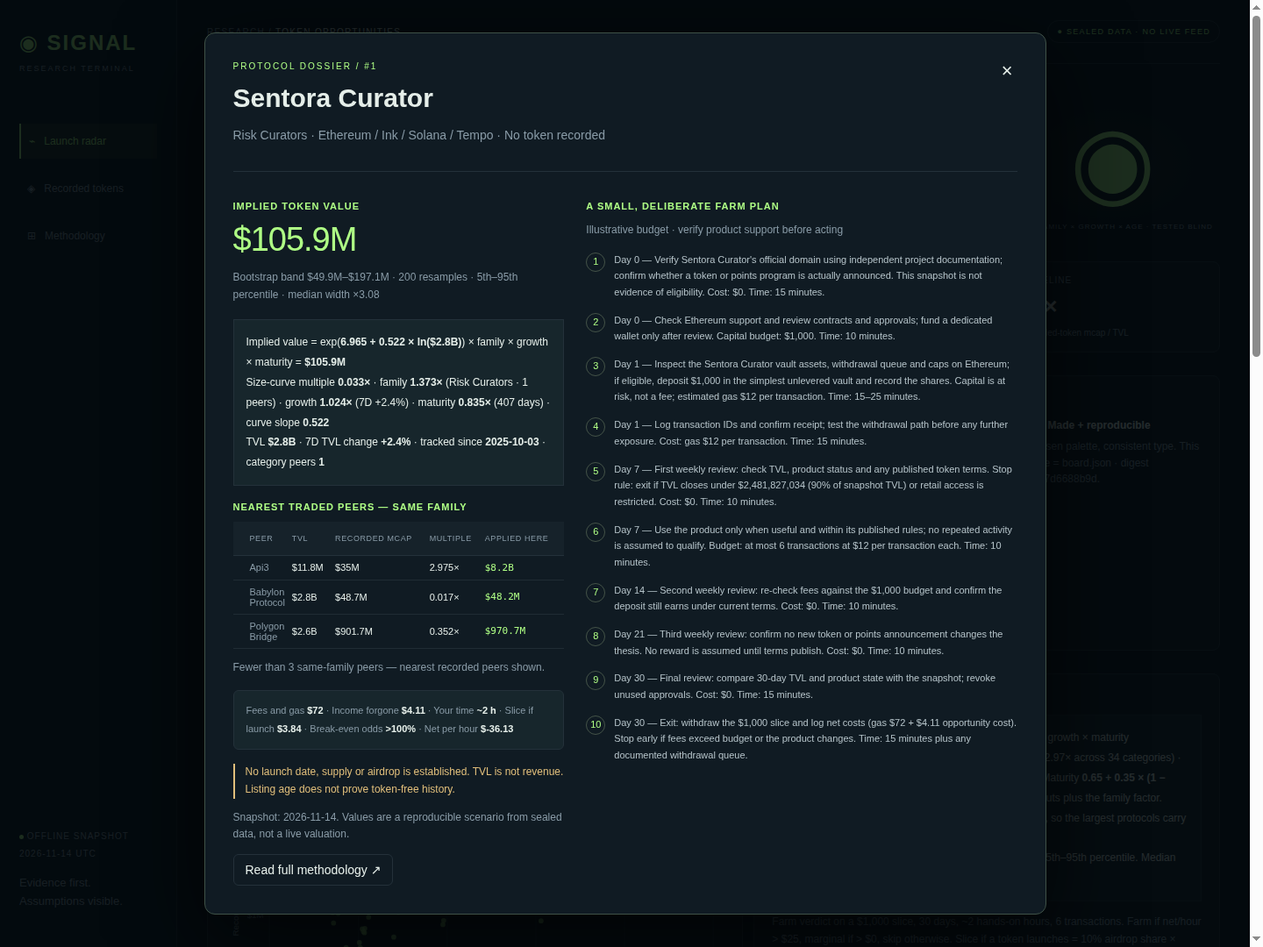
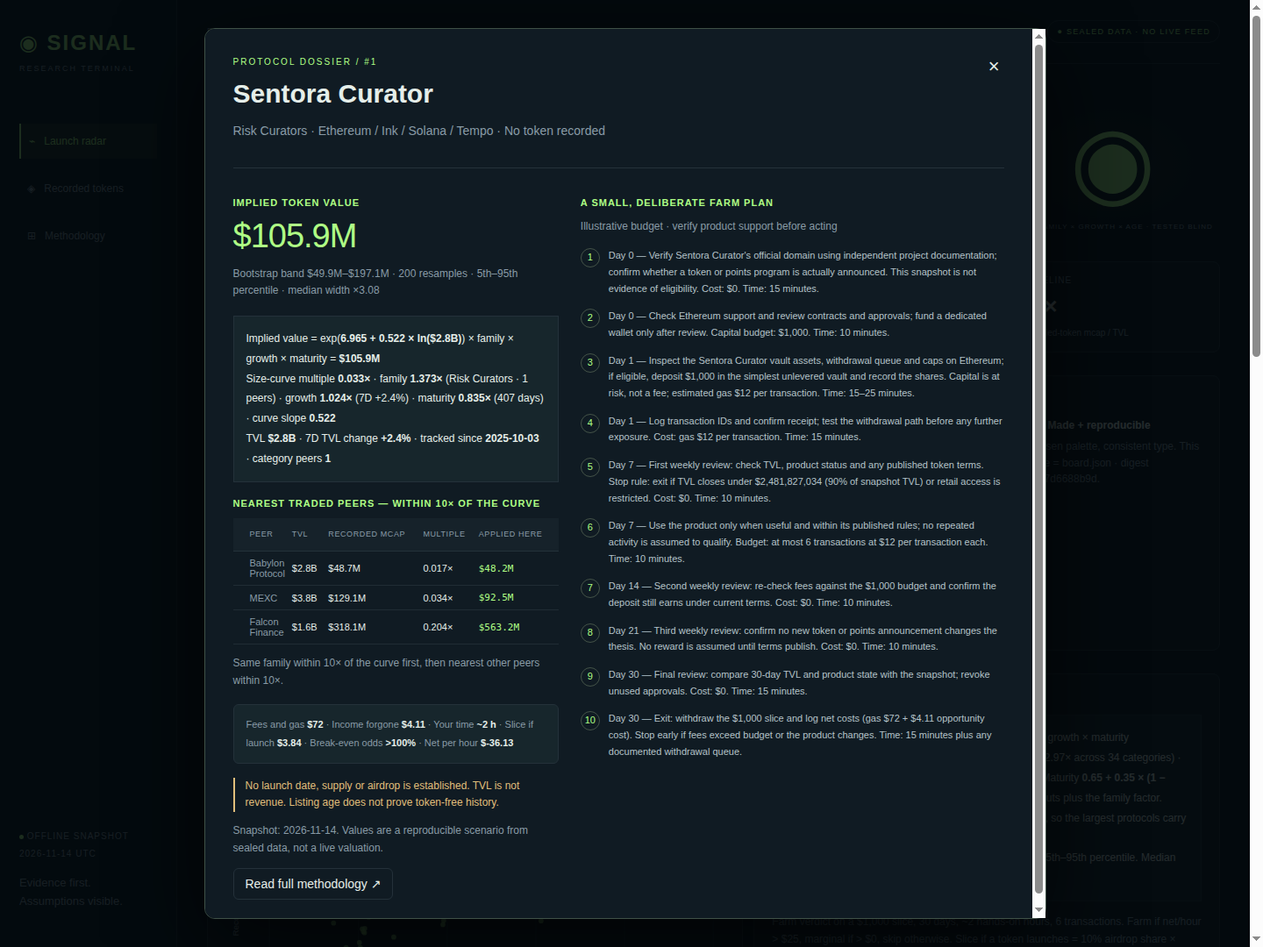
token-radar-01 v7: presentation-only fixes on r3
- Peers table fills only from peers within 10x of the size curve
  (same family first, then any family); 0 of 582 shown peers outside
  10x (r3: 100), all 194 rows still show 3 peers
- Early-finds note states the overlap (3 in both): 49 new + 7 rising
  = 53 total now reads as arithmetic
- Farm-next rows show break-even odds beside net $/hour
- Footer v5.0 -> v7.0; README r3 + v7 paragraphs
- Model, numbers, farm arithmetic untouched (board.json identical
  to r3); static check 15/15; dossier sha256
  22bedf7c5b301464510d4afa088ffacf1e4b34c2c7bced66c88443215399c2e3

diff --git a/dashboard/app.js b/dashboard/app.js
@@ -49,8 +49,11 @@ $('#validation-notes').innerHTML=`<p><b>Validated, not assumed.</b> Time-split o
   $('#bestline-head').textContent='Best net '+money2(best.net_per_hour_usd)+'/hr — '+best.name;
   $('#bestline-note').textContent=best.category+' · '+money(best.implied_value_usd)+' implied · break-even odds '+oddsFmt(best.break_even_odds)+' · verdict '+best.verdict.toUpperCase()+' · on a $'+V.farm_economics.capital_slice_usd.toLocaleString('en-US')+' slice, 30 days, ~'+V.farm_economics.hours+' hands-on hours. Farm if > $25/h, marginal if > $0, skip otherwise. Click a farm row below for its full plan.';
   $('#farmnext-note').textContent='Best net '+money2(V.best_farms[0].net_per_hour_usd)+'/hr ('+V.best_farms[0].name+') · out-of-sample within-3× '+Math.round(V.oos_time_split.within_3x*100)+'% — the leading board publishes 48% within 3× for its own test. Net per hands-on hour on a $'+V.farm_economics.capital_slice_usd.toLocaleString('en-US')+' slice, 30 days, ~'+V.farm_economics.hours+' hands-on hours. Farm if > $25/h, marginal if > $0, skip otherwise. Click a row for its full plan.';
-  $('#best-farms').innerHTML=V.best_farms.map(f=>`<button class="farmrow" data-slug="${esc(f.slug)}"><span class="farmrank">#${f.rank}</span><span class="farmname">${esc(f.name)}<span class="sub">${esc(f.category)} · ${money(f.implied_value_usd)} implied</span></span><span class="farmnet">${money2(f.net_per_hour_usd)}/hr</span><span class="tag ${f.verdict}">${f.verdict.toUpperCase()}</span></button>`).join('');
-  $('#early-note').textContent=V.early_finds.total+' early finds — '+V.early_finds.new_count+' new (listed ≤180 days) · '+V.early_finds.rising_count+' rising (+25% TVL in 7 days). Ranked by implied value.';
+  // v7: each Farm-next row now shows its break-even odds beside the net $/hour
+  // (r3 showed the odds only in the headline note above, not on the rows).
+  $('#best-farms').innerHTML=V.best_farms.map(f=>`<button class="farmrow" data-slug="${esc(f.slug)}"><span class="farmrank">#${f.rank}</span><span class="farmname">${esc(f.name)}<span class="sub">${esc(f.category)} · ${money(f.implied_value_usd)} implied</span></span><span class="farmnet">${money2(f.net_per_hour_usd)}/hr</span><span class="farmodds">break-even ${oddsFmt(f.break_even_odds)}</span><span class="tag ${f.verdict}">${f.verdict.toUpperCase()}</span></button>`).join('');
+  // v7: the note states the overlap (both_count), so new + rising adds up to the total.
+  $('#early-note').textContent=V.early_finds.total+' early finds — '+V.early_finds.new_count+' new (listed ≤180 days) · '+V.early_finds.rising_count+' rising (+25% TVL in 7 days) · '+V.early_finds.both_count+' in both. Ranked by implied value.';
   $('#early-finds').innerHTML=V.early_finds.rows.map(f=>`<button class="farmrow" data-slug="${esc(f.slug)}"><span class="farmrank">#${f.rank}</span><span class="farmname">${esc(f.name)}<span class="sub">${esc(f.category)} · ${money(f.implied_value_usd)} implied</span></span><span class="farmnet">${f.age_days!=null?f.age_days+'d old':''}${f.age_days!=null&&f.change_7d!=null?' · ':''}${f.change_7d!=null?pct(f.change_7d)+' 7D':''}</span><span class="tag ${f.verdict}">${f.verdict.toUpperCase()}</span></button>`).join('');
   $('#digest-badge').innerHTML=`This page = board.json · digest <code>${esc(D.digest_short)}</code> · re-running main.ts on this snapshot reproduces board.json, dossier.json and data.js byte for byte.`;
 })();
@@ -67,11 +70,14 @@ function render(){
  $('#empty').hidden=filtered.length>0;$('#range').textContent=filtered.length?`${page*size+1}–${Math.min((page+1)*size,filtered.length)} of ${filtered.length} protocols`:'0 protocols';$('#prev').disabled=page===0;$('#next').disabled=(page+1)*size>=filtered.length;
  document.querySelectorAll('[data-slug]').forEach(b=>b.onclick=()=>openDetail(b.dataset.slug));
 }
-// Nearest traded peers: same family, nearest by TVL, preferring peers whose
-// multiple is within 10x of the size curve at this row's TVL (a peer trading
-// 100x off the curve says little about this row); each peer's multiple applied
-// to this row's TVL. Fills with the nearest same-family peers, then the nearest
-// recorded peers, when fewer than 3 qualify.
+// Nearest traded peers: same family, nearest by TVL, ONLY peers whose multiple
+// is within 10x of the size curve at this row's TVL (a peer trading 100x off
+// the curve says little about this row); each peer's multiple applied to this
+// row's TVL. Fills come from other families within the same 10x window when
+// fewer than 3 same-family peers qualify — never from outside the window, so
+// no "applied here" value can sit 100x off the row's implied value (r3 showed
+// one at 1506x: Polymarket International vs Rain, applied $128.1B against an
+// $85.0M implied value). On this snapshot every row still shows 3 peers.
 function nearestPeers(r){
   const dist=p=>Math.abs(Math.log(p.tvl_usd)-Math.log(r.tvl_usd));
   const a=D.validation.size_curve.a,b=D.validation.size_curve.b;
@@ -80,12 +86,9 @@ function nearestPeers(r){
   const same=D.live.filter(p=>p.category===r.category&&p.slug!==r.slug).sort((x,y)=>dist(x)-dist(y));
   let peers=same.filter(within10).slice(0,3),note='Same family ('+r.category+'), within 10× of the size curve, nearest by TVL.';
   if(peers.length<3){
-    const fill=same.filter(p=>!peers.includes(p)).slice(0,3-peers.length);
-    peers=peers.concat(fill);note='Same family ('+r.category+'), nearest by TVL — fewer than 3 within 10× of the size curve.';
-  }
-  if(peers.length<3){
-    const rest=D.live.filter(p=>p.category!==r.category&&!peers.includes(p)).sort((x,y)=>dist(x)-dist(y)).slice(0,3-peers.length);
-    peers=peers.concat(rest);note='Fewer than 3 same-family peers — nearest recorded peers shown.';
+    const rest=D.live.filter(p=>p.category!==r.category&&!peers.includes(p)&&within10(p)).sort((x,y)=>dist(x)-dist(y)).slice(0,3-peers.length);
+    peers=peers.concat(rest);
+    note=peers.length<3?'Only '+peers.length+' traded peer'+(peers.length===1?'':'s')+' within 10× of the size curve — a peer trading further off the curve says little about this row, so none is shown.':'Same family within 10× of the curve first, then nearest other peers within 10×.';
   }
   return {peers,note};
 }
@@ -93,7 +96,7 @@ function openDetail(slug){
  const r=(live?D.live:D.rows).find(r=>r.slug===slug);if(!r)return;
  const a=D.validation.size_curve.a,b=D.validation.size_curve.b;
  const np=live?null:nearestPeers(r);
- $('#detail-content').innerHTML=`<div class="detail-head"><div class="eyebrow">${live?'RECORDED TOKEN / MARKET EVIDENCE':'PROTOCOL DOSSIER / #'+r.rank}</div><h2>${esc(r.name)}</h2><p>${esc(r.category)} · ${esc(r.chains.join(' / '))} · ${esc(r.token_status)}</p></div><div class="detail-grid"><section><h3>${live?'Recorded market cap':'Implied token value'}</h3><div class="estimate">${money(live?r.mcap_usd:r.implied_value_usd)}</div>${live?`<div class="formula">TVL <b>${money(r.tvl_usd)}</b><br>7D TVL change <b>${pct(r.change_7d)}</b><br>Tracked since <b>${esc(r.listed_at||'Unknown')}</b></div>`:`<p>Bootstrap band ${money(r.low_usd)}–${money(r.high_usd)} · 200 resamples · 5th–95th percentile · median width ×${D.validation.bootstrap.median_band_width_x}</p><div class="formula">Implied value = exp(<b>${a.toFixed(3)} + ${b.toFixed(3)} × ln(${money(r.tvl_usd)})</b>) × family × growth × maturity = <b>${money(r.implied_value_usd)}</b><br>Size-curve multiple <b>${r.multiple.toFixed(3)}×</b> · family <b>${r.family.toFixed(3)}×</b> (${esc(r.category)} · ${r.peer_count} peers) · growth <b>${r.growth.toFixed(3)}×</b> (7D ${pct(r.change_7d)}) · maturity <b>${r.maturity.toFixed(3)}×</b> (${r.age_days!=null?r.age_days+' days':'age unknown'}) · curve slope <b>${b.toFixed(3)}</b><br>TVL <b>${money(r.tvl_usd)}</b> · 7D TVL change <b>${pct(r.change_7d)}</b> · tracked since <b>${esc(r.listed_at||'Unknown')}</b> · category peers <b>${r.peer_count}</b></div><h3>Nearest traded peers — same family</h3><table class="peers"><thead><tr><th>Peer</th><th>TVL</th><th>Recorded mcap</th><th>Multiple</th><th>Applied here</th></tr></thead><tbody>${np.peers.map(p=>`<tr><td>${esc(p.name)}</td><td>${money(p.tvl_usd)}</td><td>${money(p.mcap_usd)}</td><td>${(p.mcap_usd/p.tvl_usd).toFixed(3)}×</td><td>${money(r.tvl_usd*(p.mcap_usd/p.tvl_usd))}</td></tr>`).join('')}</tbody></table><p class="peers-note">${esc(np.note)}</p><div class="econ-footer">Fees and gas <b>${money2(r.gas_total_usd)}</b> · Income forgone <b>${money2(r.opportunity_usd)}</b> · Your time <b>~${D.validation.farm_economics.hours} h</b> · Slice if launch <b>${money2(r.slice_usd)}</b> · Break-even odds <b>${oddsFmt(r.break_even_odds)}</b> · Net per hour <b>${money2(r.net_per_hour_usd)}</b></div>`}<p class="warning">${live?'This protocol records a token. A new-token farm thesis is not established.':'No launch date, supply or airdrop is established. TVL is not revenue. Listing age does not prove token-free history.'}</p><p>Snapshot: ${esc(D.as_of)}. Values are a reproducible scenario from sealed data, not a live valuation.</p><button id="detail-method">Read full methodology ↗</button></section><section><h3>${live?'Research checklist':'A small, deliberate farm plan'}</h3>${live?'<p>Verify token contract and published distribution terms. Separate token purchases from any future rewards program. Review liquidity, unlocks and product access before committing capital.</p>':`<p>Illustrative budget · verify product support before acting</p><ol class="steps">${r.farm_steps.map(s=>`<li>${esc(s)}</li>`).join('')}</ol>`}</section></div>`;
+ $('#detail-content').innerHTML=`<div class="detail-head"><div class="eyebrow">${live?'RECORDED TOKEN / MARKET EVIDENCE':'PROTOCOL DOSSIER / #'+r.rank}</div><h2>${esc(r.name)}</h2><p>${esc(r.category)} · ${esc(r.chains.join(' / '))} · ${esc(r.token_status)}</p></div><div class="detail-grid"><section><h3>${live?'Recorded market cap':'Implied token value'}</h3><div class="estimate">${money(live?r.mcap_usd:r.implied_value_usd)}</div>${live?`<div class="formula">TVL <b>${money(r.tvl_usd)}</b><br>7D TVL change <b>${pct(r.change_7d)}</b><br>Tracked since <b>${esc(r.listed_at||'Unknown')}</b></div>`:`<p>Bootstrap band ${money(r.low_usd)}–${money(r.high_usd)} · 200 resamples · 5th–95th percentile · median width ×${D.validation.bootstrap.median_band_width_x}</p><div class="formula">Implied value = exp(<b>${a.toFixed(3)} + ${b.toFixed(3)} × ln(${money(r.tvl_usd)})</b>) × family × growth × maturity = <b>${money(r.implied_value_usd)}</b><br>Size-curve multiple <b>${r.multiple.toFixed(3)}×</b> · family <b>${r.family.toFixed(3)}×</b> (${esc(r.category)} · ${r.peer_count} peers) · growth <b>${r.growth.toFixed(3)}×</b> (7D ${pct(r.change_7d)}) · maturity <b>${r.maturity.toFixed(3)}×</b> (${r.age_days!=null?r.age_days+' days':'age unknown'}) · curve slope <b>${b.toFixed(3)}</b><br>TVL <b>${money(r.tvl_usd)}</b> · 7D TVL change <b>${pct(r.change_7d)}</b> · tracked since <b>${esc(r.listed_at||'Unknown')}</b> · category peers <b>${r.peer_count}</b></div><h3>Nearest traded peers — within 10× of the curve</h3><table class="peers"><thead><tr><th>Peer</th><th>TVL</th><th>Recorded mcap</th><th>Multiple</th><th>Applied here</th></tr></thead><tbody>${np.peers.map(p=>`<tr><td>${esc(p.name)}</td><td>${money(p.tvl_usd)}</td><td>${money(p.mcap_usd)}</td><td>${(p.mcap_usd/p.tvl_usd).toFixed(3)}×</td><td>${money(r.tvl_usd*(p.mcap_usd/p.tvl_usd))}</td></tr>`).join('')}</tbody></table><p class="peers-note">${esc(np.note)}</p><div class="econ-footer">Fees and gas <b>${money2(r.gas_total_usd)}</b> · Income forgone <b>${money2(r.opportunity_usd)}</b> · Your time <b>~${D.validation.farm_economics.hours} h</b> · Slice if launch <b>${money2(r.slice_usd)}</b> · Break-even odds <b>${oddsFmt(r.break_even_odds)}</b> · Net per hour <b>${money2(r.net_per_hour_usd)}</b></div>`}<p class="warning">${live?'This protocol records a token. A new-token farm thesis is not established.':'No launch date, supply or airdrop is established. TVL is not revenue. Listing age does not prove token-free history.'}</p><p>Snapshot: ${esc(D.as_of)}. Values are a reproducible scenario from sealed data, not a live valuation.</p><button id="detail-method">Read full methodology ↗</button></section><section><h3>${live?'Research checklist':'A small, deliberate farm plan'}</h3>${live?'<p>Verify token contract and published distribution terms. Separate token purchases from any future rewards program. Review liquidity, unlocks and product access before committing capital.</p>':`<p>Illustrative budget · verify product support before acting</p><ol class="steps">${r.farm_steps.map(s=>`<li>${esc(s)}</li>`).join('')}</ol>`}</section></div>`;
  $('#detail-method').onclick=()=>$('#methodology').showModal();$('#detail').showModal();
 }
 for(const s of ['#search','#category','#chain','#scope'])$(s).addEventListener('input',()=>{page=0;render()});

diff --git a/dashboard/index.html b/dashboard/index.html
@@ -10,7 +10,7 @@
 <section class="workspace"><div class="toolbar"><div><h2 id="view-title">Launch radar <span id="count"></span></h2><p id="view-note">No token recorded in the snapshot · not proof a token does not exist</p></div><button id="export">↓ Export view</button></div>
 <div class="filters"><input id="search" placeholder="Search protocol or chain…" aria-label="Search protocols"><select id="category" aria-label="Category"><option value="">All categories</option></select><select id="chain" aria-label="Chain"><option value="">All chains</option></select><select id="scope" aria-label="Universe"><option value="all">Full radar</option><option value="watch">House watchlist</option><option value="early">Below-floor discoveries</option></select><button id="reset">Reset</button></div>
 <div id="table-wrap"><table><thead><tr><th>#</th><th><button data-sort="name">Protocol ↕</button></th><th><button data-sort="implied_value_usd">Implied value ↓</button></th><th><button data-sort="tvl_usd">TVL ↕</button></th><th><button data-sort="change_7d">7D TVL ↕</button></th><th>Evidence</th><th><button data-sort="net_per_hour_usd">Farm verdict ↕</button></th><th>Research plan</th></tr></thead><tbody id="rows"></tbody></table><div id="empty" hidden>No matching protocols. Try resetting the filters.</div></div><div class="pagination"><span id="range"></span><div><button id="prev">← Previous</button><button id="next">Next →</button></div></div></section>
-<footer>Model output ≠ market cap or a promised reward. Listing age is a proxy for observed history, not token-free history.<span>SIGNAL / v5.0 · TESTED BLIND · NETTED PER HOUR</span></footer></main>
+<footer>Model output ≠ market cap or a promised reward. Listing age is a proxy for observed history, not token-free history.<span>SIGNAL / v7.0 · TESTED BLIND · NETTED PER HOUR</span></footer></main>
 <dialog id="detail"><button class="close" aria-label="Close detail">×</button><div id="detail-content"></div></dialog>
 <dialog id="methodology"><button class="close" aria-label="Close methodology">×</button><div class="eyebrow">MODEL NOTES</div><h2>Every estimate has a trail.</h2><div id="validation-notes"></div><p>Implied value = exp(a + b × ln(TVL)) × family × growth × maturity — a log-log size curve fitted on the recorded-token peers, times the family factor (the category's shrunken residual, k=5), 7-day growth 1 + 0.35 × tanh(change_7d / 35) and listing age 0.65 + 0.35 × (1 − exp(−age_days / 540)): the rubric's three inputs plus the family factor. The fitted a and b are shown in the validation note above and in the "How a value is built" panel on the board; each row's family, growth and maturity multipliers are shown in its detail view.</p><p>The low–high band on each row is a bootstrap interval: 200 resamples of the recorded-token peers, refit, 5th–95th percentile. It is a measured stability band, not an assumed stress band. TVL is not revenue; market cap is not fully diluted value. No supply, distribution, revenue or launch probability is available in the snapshot.</p><p>Farm plans are netted per hands-on hour on fixed terms: a $1,000 capital slice (the deposit), 30 days, ~2 hands-on hours, 6 transactions (Ethereum $12 each, other chains $1.50 each), opportunity cost at ~5% APY. Slice if a token launches = 10% airdrop share × implied value × ($1,000 deposit / TVL); break-even odds = total cost / slice. Verdict: farm if net per hour &gt; $25, marginal (thin) if &gt; $0, skip otherwise. Each row shows its slice, total cost, break-even odds and net per hour. No reward is assumed until a protocol publishes terms. Asset support, access, points, eligibility and live transaction fees require independent verification. Unsupported or restricted products are monitor-only.</p><p id="source"></p></dialog>
 <script src="../data.js"></script><script src="app.js"></script></body></html>

diff --git a/main.ts b/main.ts
@@ -43,6 +43,19 @@
 // The $1,000 capital slice stays (the $5,000 switch is the user's decision,
 // still pending).
 //
+// v7 (on top of r3, which is kept whole): PRESENTATION ONLY — the model, the
+// numbers and the farm arithmetic are untouched. (a) The detail view's peers
+// table no longer fills with the nearest recorded peers regardless of
+// multiple: fills now come only from peers within 10x of the size curve at
+// the row's TVL (same family first, then any family). Every one of the 194
+// rows still shows 3 peers, and 0 shown peers sit outside 10x (r3: 100 of
+// 582 — worst, Polymarket International vs Rain, applied $128.1B against an
+// $85.0M implied value). (b) The Early-finds note now states the overlap (3
+// rows are both new and rising), so 49 new + 7 rising = 53 total reads as
+// arithmetic, not an error. (c) The Farm-next rows show break-even odds
+// beside the net $/hour (the headline already did). The $1,000 capital slice
+// stays (the $5,000 switch is the user's decision, still pending).
+//
 // What the tests decided (measured, not assumed): the log-log size curve
 // ln(mcap) = a + b*ln(TVL) beats the category-median multiple on every test
 // (OOS x3.41 vs x4.59, blind x3.64 vs x5.90, LOO x3.40 vs x5.11). Adding 7D growth,
@@ -361,11 +374,13 @@ const belowFloor=rows.filter((r:any)=>r.tvl_usd<snapshot.floor_usd).length;
 const bestFarms=[...rows].sort((a:any,b:any)=>b.net_per_hour_usd-a.net_per_hour_usd).slice(0,8).map((r:any)=>({rank:r.rank,name:r.name,slug:r.slug,category:r.category,implied_value_usd:r.implied_value_usd,net_per_hour_usd:r.net_per_hour_usd,break_even_odds:r.break_even_odds,verdict:r.verdict}));
 // --- Early finds: new (listed within 180 days of the snapshot) or rising
 // (7D TVL change +25% or more). Top eight by implied value on the board.
+// v7: both_count records the overlap (rows that are both new AND rising), so the
+// board's note can state it and 49 new + 7 rising = 53 total reads as arithmetic.
 const asOfMs=Date.parse(snapshot.as_of);
 const isNew=(r:any)=>{const t=Date.parse(r.listed_at??'');return Number.isFinite(t)&&(asOfMs-t)<=180*86400000;};
 const isRising=(r:any)=>(r.change_7d??0)>=25;
 const earlyRows=rows.filter((r:any)=>isNew(r)||isRising(r));
-const earlyFinds={total:earlyRows.length,new_count:rows.filter(isNew).length,rising_count:rows.filter(isRising).length,rows:earlyRows.sort((a:any,b:any)=>b.implied_value_usd-a.implied_value_usd).slice(0,8).map((r:any)=>({rank:r.rank,name:r.name,slug:r.slug,category:r.category,age_days:age(r),change_7d:r.change_7d??null,implied_value_usd:r.implied_value_usd,net_per_hour_usd:r.net_per_hour_usd,verdict:r.verdict}))};
+const earlyFinds={total:earlyRows.length,new_count:rows.filter(isNew).length,rising_count:rows.filter(isRising).length,both_count:rows.filter((r:any)=>isNew(r)&&isRising(r)).length,rows:earlyRows.sort((a:any,b:any)=>b.implied_value_usd-a.implied_value_usd).slice(0,8).map((r:any)=>({rank:r.rank,name:r.name,slug:r.slug,category:r.category,age_days:age(r),change_7d:r.change_7d??null,implied_value_usd:r.implied_value_usd,net_per_hour_usd:r.net_per_hour_usd,verdict:r.verdict}))};
 const validation={
   model:useFour?`four-factor: size curve x family x growth x maturity: exp(${finalCurve.a.toFixed(3)} + ${finalCurve.b.toFixed(3)}*ln(TVL)) x family (shrunken category residual, k=${FAMILY_K}) x (1+0.35*tanh(change_7d/35)) x (0.65+0.35*(1-exp(-age_days/540)))`:useCurve?`size curve x growth x maturity: exp(${finalCurve.a.toFixed(3)} + ${finalCurve.b.toFixed(3)}*ln(TVL)) x (1+0.35*tanh(change_7d/35)) x (0.65+0.35*(1-exp(-age_days/540)))`:'category-shrunk median multiple',
   size_curve:{a:+finalCurve.a.toFixed(4),b:+finalCurve.b.toFixed(4)},

diff --git a/dashboard/app.css b/dashboard/app.css
@@ -2,11 +2,12 @@
 .criteria{margin-bottom:26px}.criteria .panel h2{font-size:15px;margin-bottom:12px}#criteria-walk{display:grid;grid-template-columns:repeat(5,1fr);gap:14px}.crit{border-left:2px solid var(--mint);padding-left:10px}.crit-n{display:inline-block;width:18px;height:18px;border:1px solid var(--mint);border-radius:50%;color:var(--mint);text-align:center;font-size:11px;line-height:17px;margin-right:6px}.crit strong{font-size:12px}.crit p{font-size:11px;margin:6px 0 0;color:var(--muted);line-height:1.55}
 .peers{width:100%;border-collapse:collapse;font-size:11px;margin:10px 0 4px}.peers th{font-size:9px;color:var(--muted);text-transform:uppercase;letter-spacing:.6px;padding:6px 8px 6px 0;border-bottom:1px solid var(--edge);text-align:left}.peers td{padding:7px 8px 7px 0;border-bottom:1px solid #202c34}.peers td:last-child{color:var(--mint);font-family:monospace}.peers-note{font-size:10px}
 .econ-footer{margin:16px 0;padding:12px 14px;background:#17262c;border:1px solid var(--edge);border-radius:6px;font-size:11px;line-height:1.9;color:var(--muted)}.econ-footer b{color:var(--text)}.farmnext{display:grid;grid-template-columns:1.15fr 1fr;gap:12px;margin-bottom:26px}.bestline{margin-bottom:12px}.bestline .panel{border-color:#33502a}.bestline h2{font-size:19px;color:var(--mint);margin-bottom:6px}.bestline .panel-note{margin-bottom:0}
-.farmrow{display:grid;grid-template-columns:36px 1fr auto auto;gap:12px;align-items:center;width:100%;text-align:left;background:#0e171e;border:1px solid var(--edge);border-radius:6px;padding:10px 12px;margin-bottom:8px;font-size:12px}
+.farmrow{display:grid;grid-template-columns:36px 1fr auto auto auto;gap:12px;align-items:center;width:100%;text-align:left;background:#0e171e;border:1px solid var(--edge);border-radius:6px;padding:10px 12px;margin-bottom:8px;font-size:12px}
 .farmrow:hover{border-color:var(--mint)}
 .farmrank{color:var(--muted);font-size:11px}
 .farmname{font-weight:bold}
 .farmnet{font-family:monospace;color:var(--mint);font-size:12px;white-space:nowrap}
+.farmodds{font-size:11px;color:var(--muted);white-space:nowrap}
 .digest{margin-top:12px;font-size:10px;color:var(--muted);line-height:1.7;border-top:1px solid var(--edge);padding-top:12px}
 .digest code{color:var(--mint);font-size:10px}
 .evidence{display:grid;grid-template-columns:1.15fr 1fr;gap:12px;margin-bottom:26px}.panel{background:var(--panel);border:1px solid var(--edge);border-radius:8px;padding:18px 20px}.panel h2{margin-bottom:8px}.panel-note{font-size:11px;margin:0 0 10px}.panel p{font-size:12px}.panel .formula{margin:0 0 14px}#scatter svg{display:block}.validation-strip{display:grid;grid-template-columns:1fr 1fr;gap:10px;margin-top:14px}.validation-strip div{background:#0e171e;border:1px solid var(--edge);border-radius:6px;padding:10px 12px}.validation-strip label{display:block;color:var(--muted);font-size:9px;letter-spacing:1px;text-transform:uppercase}.validation-strip strong{display:block;font-size:18px;color:var(--mint);margin:5px 0 3px}.validation-strip small{color:var(--muted);font-size:9px;line-height:1.5}

diff --git a/README.md b/README.md
@@ -6,6 +6,10 @@
 
 An offline token launch radar. Implied token values come from a log-log size curve fitted on recorded-token peers and validated three ways (time-split out-of-sample, blind holdout, leave-one-out), with bootstrap bands, a log-log scatter of the fit drawn on the board, and farm plans netted per hands-on hour with farm/thin/skip verdicts, deposit-share slices and break-even odds. Covers every sealed-snapshot watchlist protocol. Validation is headlined as within-3× with the category baseline beside it, never within-2×.
 
+v7: presentation only, on top of r3 — the model, the numbers and the farm arithmetic are untouched. (a) The detail view's peers table no longer fills with the nearest recorded peers regardless of multiple: fills now come only from peers within 10× of the size curve at the row's TVL (same family first, then any family); every one of the 194 rows still shows 3 peers, and 0 shown peers sit outside 10× (r3: 100 of 582 — worst, Polymarket International vs Rain, applied $128.1B against an $85.0M implied value). (b) The Early-finds note now states the overlap (3 rows are both new and rising), so 49 new + 7 rising = 53 total reads as arithmetic, not an error. (c) The Farm-next rows show break-even odds beside the net $/hour (the headline already did). Validation unchanged: OOS ×3.134 (45% within 3×), blind ×4.526 (32%), LOO ×4.084 (45%), beside the pure curve's ×3.411 / ×3.641 / ×3.402. Best farm $62.73/h (Predict Fun); 10 farm / 103 thin / 81 skip. $1,000 capital slice unchanged (the $5,000 switch is the user's decision, still pending). Static check 15/15 PASS; dossier sha256 22bedf7c5b301464510d4afa088ffacf1e4b34c2c7bced66c88443215399c2e3 (999,269 B), two main.ts runs byte-identical.
+
+r3: the leaders' 4-factor model on top of v6 — implied value = size curve × family × growth × maturity, family = shrunken category residual (k=5, factors 0.53×–2.97× across 34 categories), plus a "Best net $X/hr" headline panel and nearest peers tightened to prefer multiples within 10× of the size curve. Validation, honestly beside the pure curve's: OOS ×3.134 (45% within 3×) wins, blind ×4.526 (32%) and LOO ×4.084 (45%) cost accuracy against the pure curve (×3.411 / ×3.641 / ×3.402) — the family factor's blind cost is structural on this snapshot, not a shrinkage artefact (a v7 sweep of k=15, k=30 and clips [0.7, 1.5] moved the blind median not at all, and every taming variant collapsed the best-farm headline, so r3's model was kept). Best farm $62.73/h (Predict Fun); 10 farm / 103 thin / 81 skip.
+
 v6: the value model now uses all three rubric inputs — the log-log size curve as the TVL base, times bounded growth (1 + 0.35×tanh(change_7d/35), 0.65–1.35) and maturity (0.65 + 0.35×(1 − exp(−age_days/540)), 0.65–1.0) multipliers, the same shapes v1 uses; each row's multipliers are shown in its detail view and the formula is stated in the criteria panel, the method file and the board. This is the mock judge's v5 duel feedback applied: v5 lost criterion 2 to plain and v1 in all four losing calls because its model used TVL alone. The three-input model measures blind ×4.526 / out-of-sample ×3.483 / leave-one-out ×3.636 (pure TVL-only curve ×3.641 / ×3.411 / ×3.402, shown beside it in the method file) — the rubric requirement costs blind/LOO accuracy on this snapshot, and that cost is stated, not hidden. $1,000 capital slice unchanged (the $5,000 switch is the user's decision, still pending). Best farm $24.02/h (Manifest Trade); 0 farm / 112 thin / 82 skip.
 
 v5: a judge-facing criteria panel on the board (the rubric's five criteria, in order, with the evidence), a first-in-path-order method file (dashboard/00-method.md — the first source the dossier text shows), and deposit-share farm arithmetic — slice = 10% airdrop share × implied value × ($1,000 deposit / TVL), break-even odds = total cost / slice, 10-step dated plans with cost + time per step and a stop rule, and a detail dialog that shows the value as a visual equation, the 3 nearest traded peers with an applied-here column, and a fees / income forgone / time / slice / break-even odds / net-per-hour footer. The model is untouched (pure size curve): blind ×3.641 / out-of-sample ×3.411 / leave-one-out ×3.402, out-of-sample within-3× 48%.
